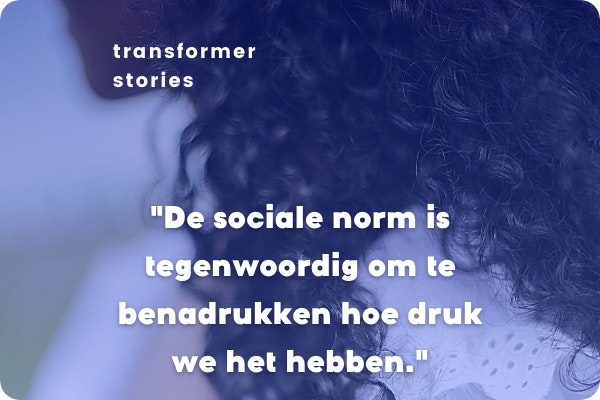
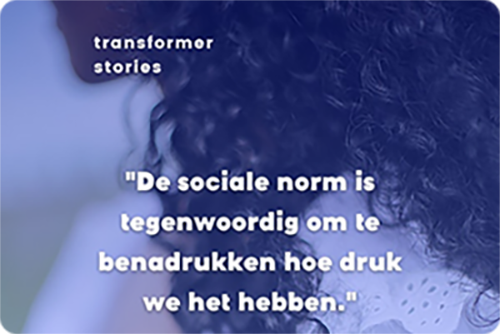
Responsive bijna af

diff --git a/css/home_style.css b/css/home_style.css
@@ -99,7 +99,7 @@ body {
 .container  {
     background-color: #5626CA;
     width: 100%;
-    height: 400px;
+    height: 100%;
     display: flex;
     justify-content: space-around;
     align-items: center;
@@ -107,6 +107,7 @@ body {
 
 .lifesucks {
     color: white;
+    padding: 3vh;
 
 }
 
@@ -117,6 +118,49 @@ body {
 .lifesucks > p {
     margin: 0;
 }
+
+.video {
+    padding: 3vh;
+}
+
+.videoIframe {
+    height: 315px;
+    width: 560px;
+}
+
+@media screen and (max-width: 920px) {
+    .container {
+        flex-direction: column;
+    }
+}
+
+@media screen and (max-width: 580px) {
+    .videoIframe {
+        height: 225px;
+        width: 400px;
+    }
+}
+
+
+/* Transformers Slider */
+
+.slider {
+    padding-bottom: 10vh;
+}
+
+.Img1Slider {
+    content:url("../images/kopie1.png");
+}
+
+.Img2Slider {
+    content:url("../images/kopie2.png");
+}
+
+
+.Img3Slider {
+    content:url("../images/kopie3.png");
+}
+
 
 
 /* Transformers sectie */
@@ -163,6 +207,7 @@ body {
 .OT{
     padding-top: 10vh;
     padding-bottom: 10vh;
+    margin: 0%;
 }
 
 .transformers{
@@ -236,6 +281,7 @@ body {
         flex-direction: column;
         justify-content: center;
         text-align: center;
+        padding: 0%;
     
     }
     
@@ -244,7 +290,7 @@ body {
         justify-content: center;
         grid-template-columns: repeat(5, 1fr);
         grid-template-rows: repeat(1, 1fr);
-        padding: 20px;
+        /* padding: 20px; */
         grid-gap:15px;
     }
     
@@ -341,4 +387,49 @@ body {
         margin-left: 45%;
         opacity: 100%;
     }
+}
+
+/* Slider mediaquerries */
+
+@media screen and (max-width: 1520px) {
+    .Img1Slider {
+        content:url("../images/Foto1-1500px.png");
+    }
+    
+    .Img2Slider {
+        content:url("../images/Foto2-1500px.png");
+    }
+    
+    
+    .Img3Slider {
+        content:url("../images/Foto3-1500px.png");
+    }
+    
+}
+
+@media screen and (max-width: 1080px) {
+    .Img1Slider {
+        content:url("../images/Foto1-1080px.png");
+    }
+    
+    .Img2Slider {
+        content:url("../images/Foto2-1080px.png");
+    }
+    
+    
+    .Img3Slider {
+        content:url("../images/Foto3-1080px.png");
+    }
+    
+}
+
+
+@media screen and (max-width: 840px) {
+    /* .slider {
+        display: none;
+    } */
+
+    /* .slider {
+        /* overflow: hidden; */
+    /* } */
 }

diff --git a/css/tekst.css b/css/tekst.css
@@ -234,8 +234,8 @@ footer>img{
 
     .tekst{
         display:grid;
-        grid-template-columns:repeat(2, 2fr);
-        grid-template-rows:repeat(1, 2fr);
+        grid-template-columns:repeat(1, 2fr);
+        grid-template-rows:repeat(1, 1fr);
         justify-content:center;
         grid-column-gap:5%;
         padding:5%;

diff --git a/_private/views/homepage.php b/_private/views/homepage.php
@@ -24,7 +24,7 @@
         
     </div>
     <div class="video">
-    <iframe width="560" height="315" src="https://www.youtube.com/embed/yH-YlklV-T4" title="YouTube video player" frameborder="0" allow="accelerometer; autoplay; clipboard-write; encrypted-media; gyroscope; picture-in-picture" allowfullscreen></iframe>
+    <iframe class="videoIframe" src="https://www.youtube.com/embed/yH-YlklV-T4" title="YouTube video player" frameborder="0" allow="accelerometer; autoplay; clipboard-write; encrypted-media; gyroscope; picture-in-picture" allowfullscreen></iframe>
     </div>
 </div>
 
@@ -41,13 +41,13 @@
             <div class="splide__track">
                 <ul class="splide__list">
                     <li class="splide__slide">
-                        <img src="../../images/kopie1.png" alt="">
+                        <img class="Img1Slider" alt="">
                     </li>
                     <li class="splide__slide">
-                        <img src="../../images/kopie2.png" alt="">
+                        <img class="Img2Slider" alt="">
                     </li>
                     <li class="splide__slide">
-                        <img src="../../images/kopie3.png" alt="">
+                        <img class="Img3Slider" alt="">
                     </li>
                 </ul>
             </div>
@@ -112,15 +112,12 @@
         <p class="titelbeschijving">De transformers community is er voor jongeren die
             <br>zelfverzekerd willen zijn en tegenslagen omzetten in
             <br> kracht. We doen dit samen: zo leren we meer
-            <br> en helpen we elkaar om te groeien.
+            <br> en helpen we elkaar om te groeien.</p>
             <div class="onlineCommunity">
             <a href="#" class="onlineCommunityButton" >Meld je Gratis aan</a>
         </div>
-        </p>
+        
     </div>
-
-    
-    
 </div>
 
 <div class="balk">ik ben pawel</div>
@@ -161,6 +158,21 @@
     </footer>
 
 <script>
+    function getWidth() {
+  if (self.innerWidth) {
+    return self.innerWidth;
+  }
+
+  if (document.documentElement && document.documentElement.clientWidth) {
+    return document.documentElement.clientWidth;
+  }
+
+  if (document.body) {
+    return document.body.clientWidth;
+  }
+}
+
+    var kupa = 2;
   document.addEventListener( 'DOMContentLoaded', function () {
     new Splide( '#image-slider', {
         cover      : true,
@@ -195,6 +207,26 @@ function showSlides() {
             slides[slideIndex-1].style.display = "block";  
             dots[slideIndex-1].className += " active";
             setTimeout(showSlides, 5000); // Change image every 2 seconds
+    }
+
+        if (getWidth() < 841) {
+
+            var splide = new Splide( '.splide', {
+            type   : 'loop',
+            perPage: 1,
+            focus  : 'center',
+            } );
+            console.log(getWidth());
+
+            splide.mount();
+        } else {
+            var splide = new Splide( '.splide', {
+            type   : 'loop',
+            perPage: 3,
+            focus  : 'center',
+        } );
+
+        splide.mount();
     }
         </script>
 </script>
